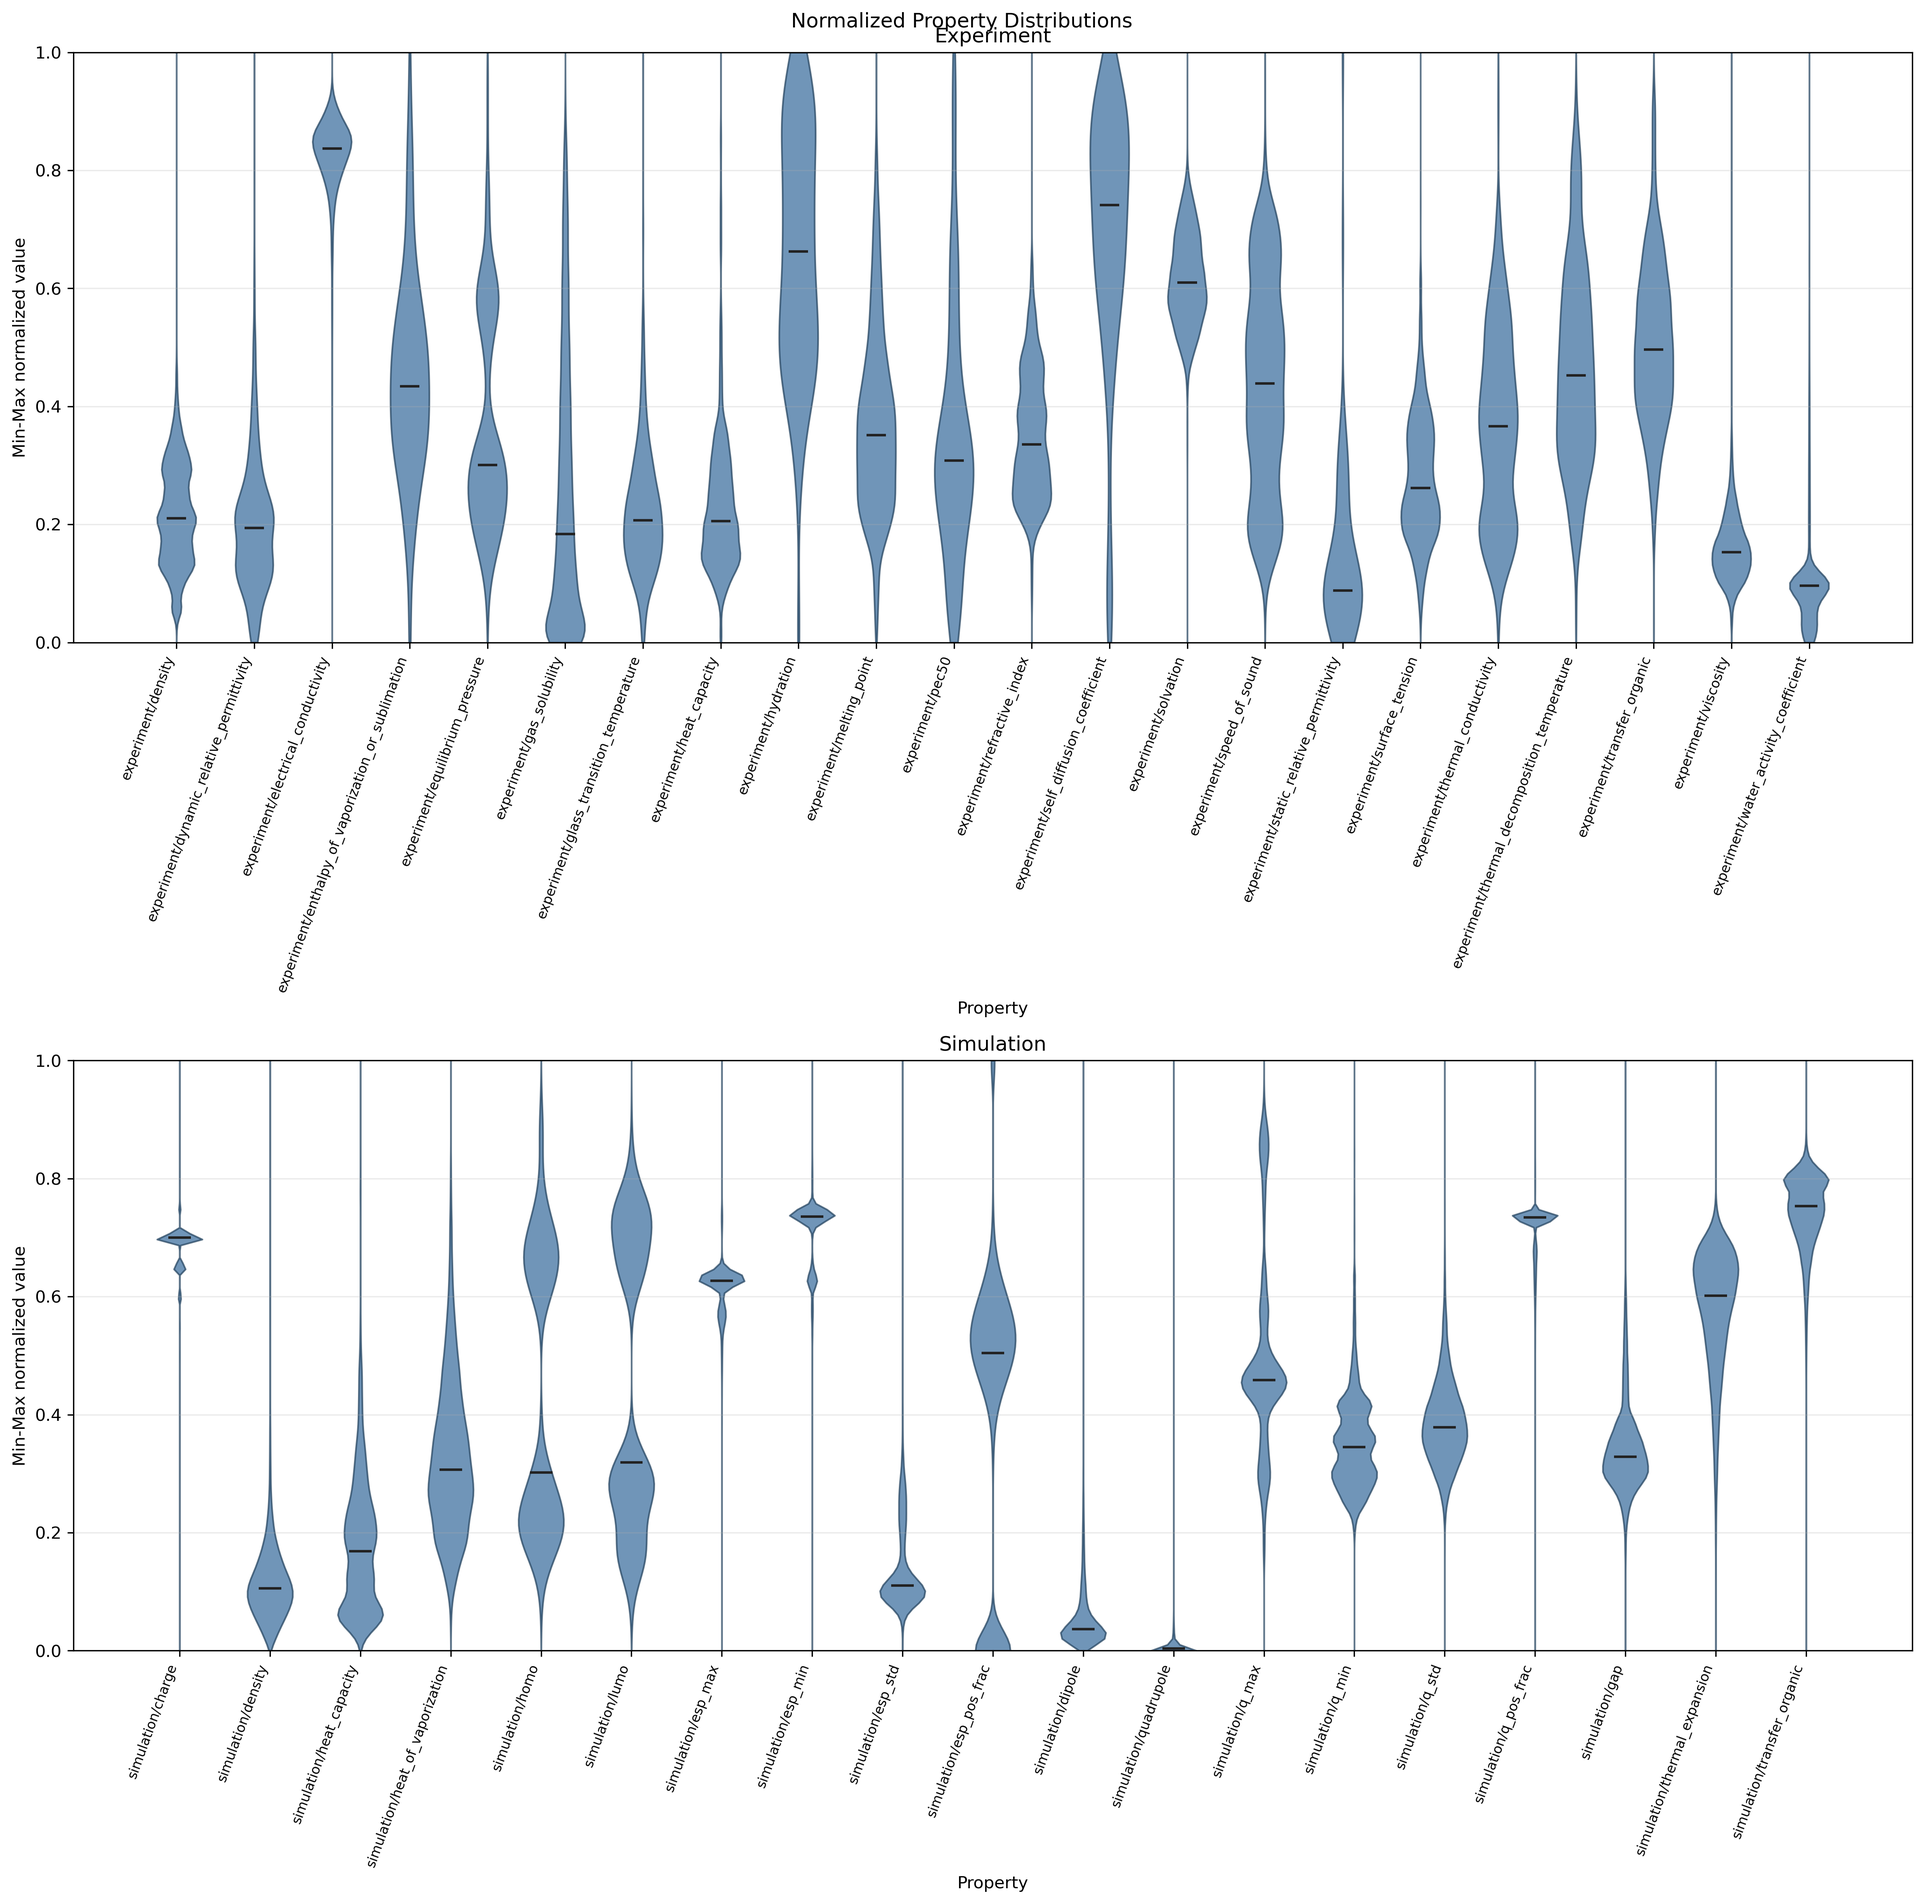
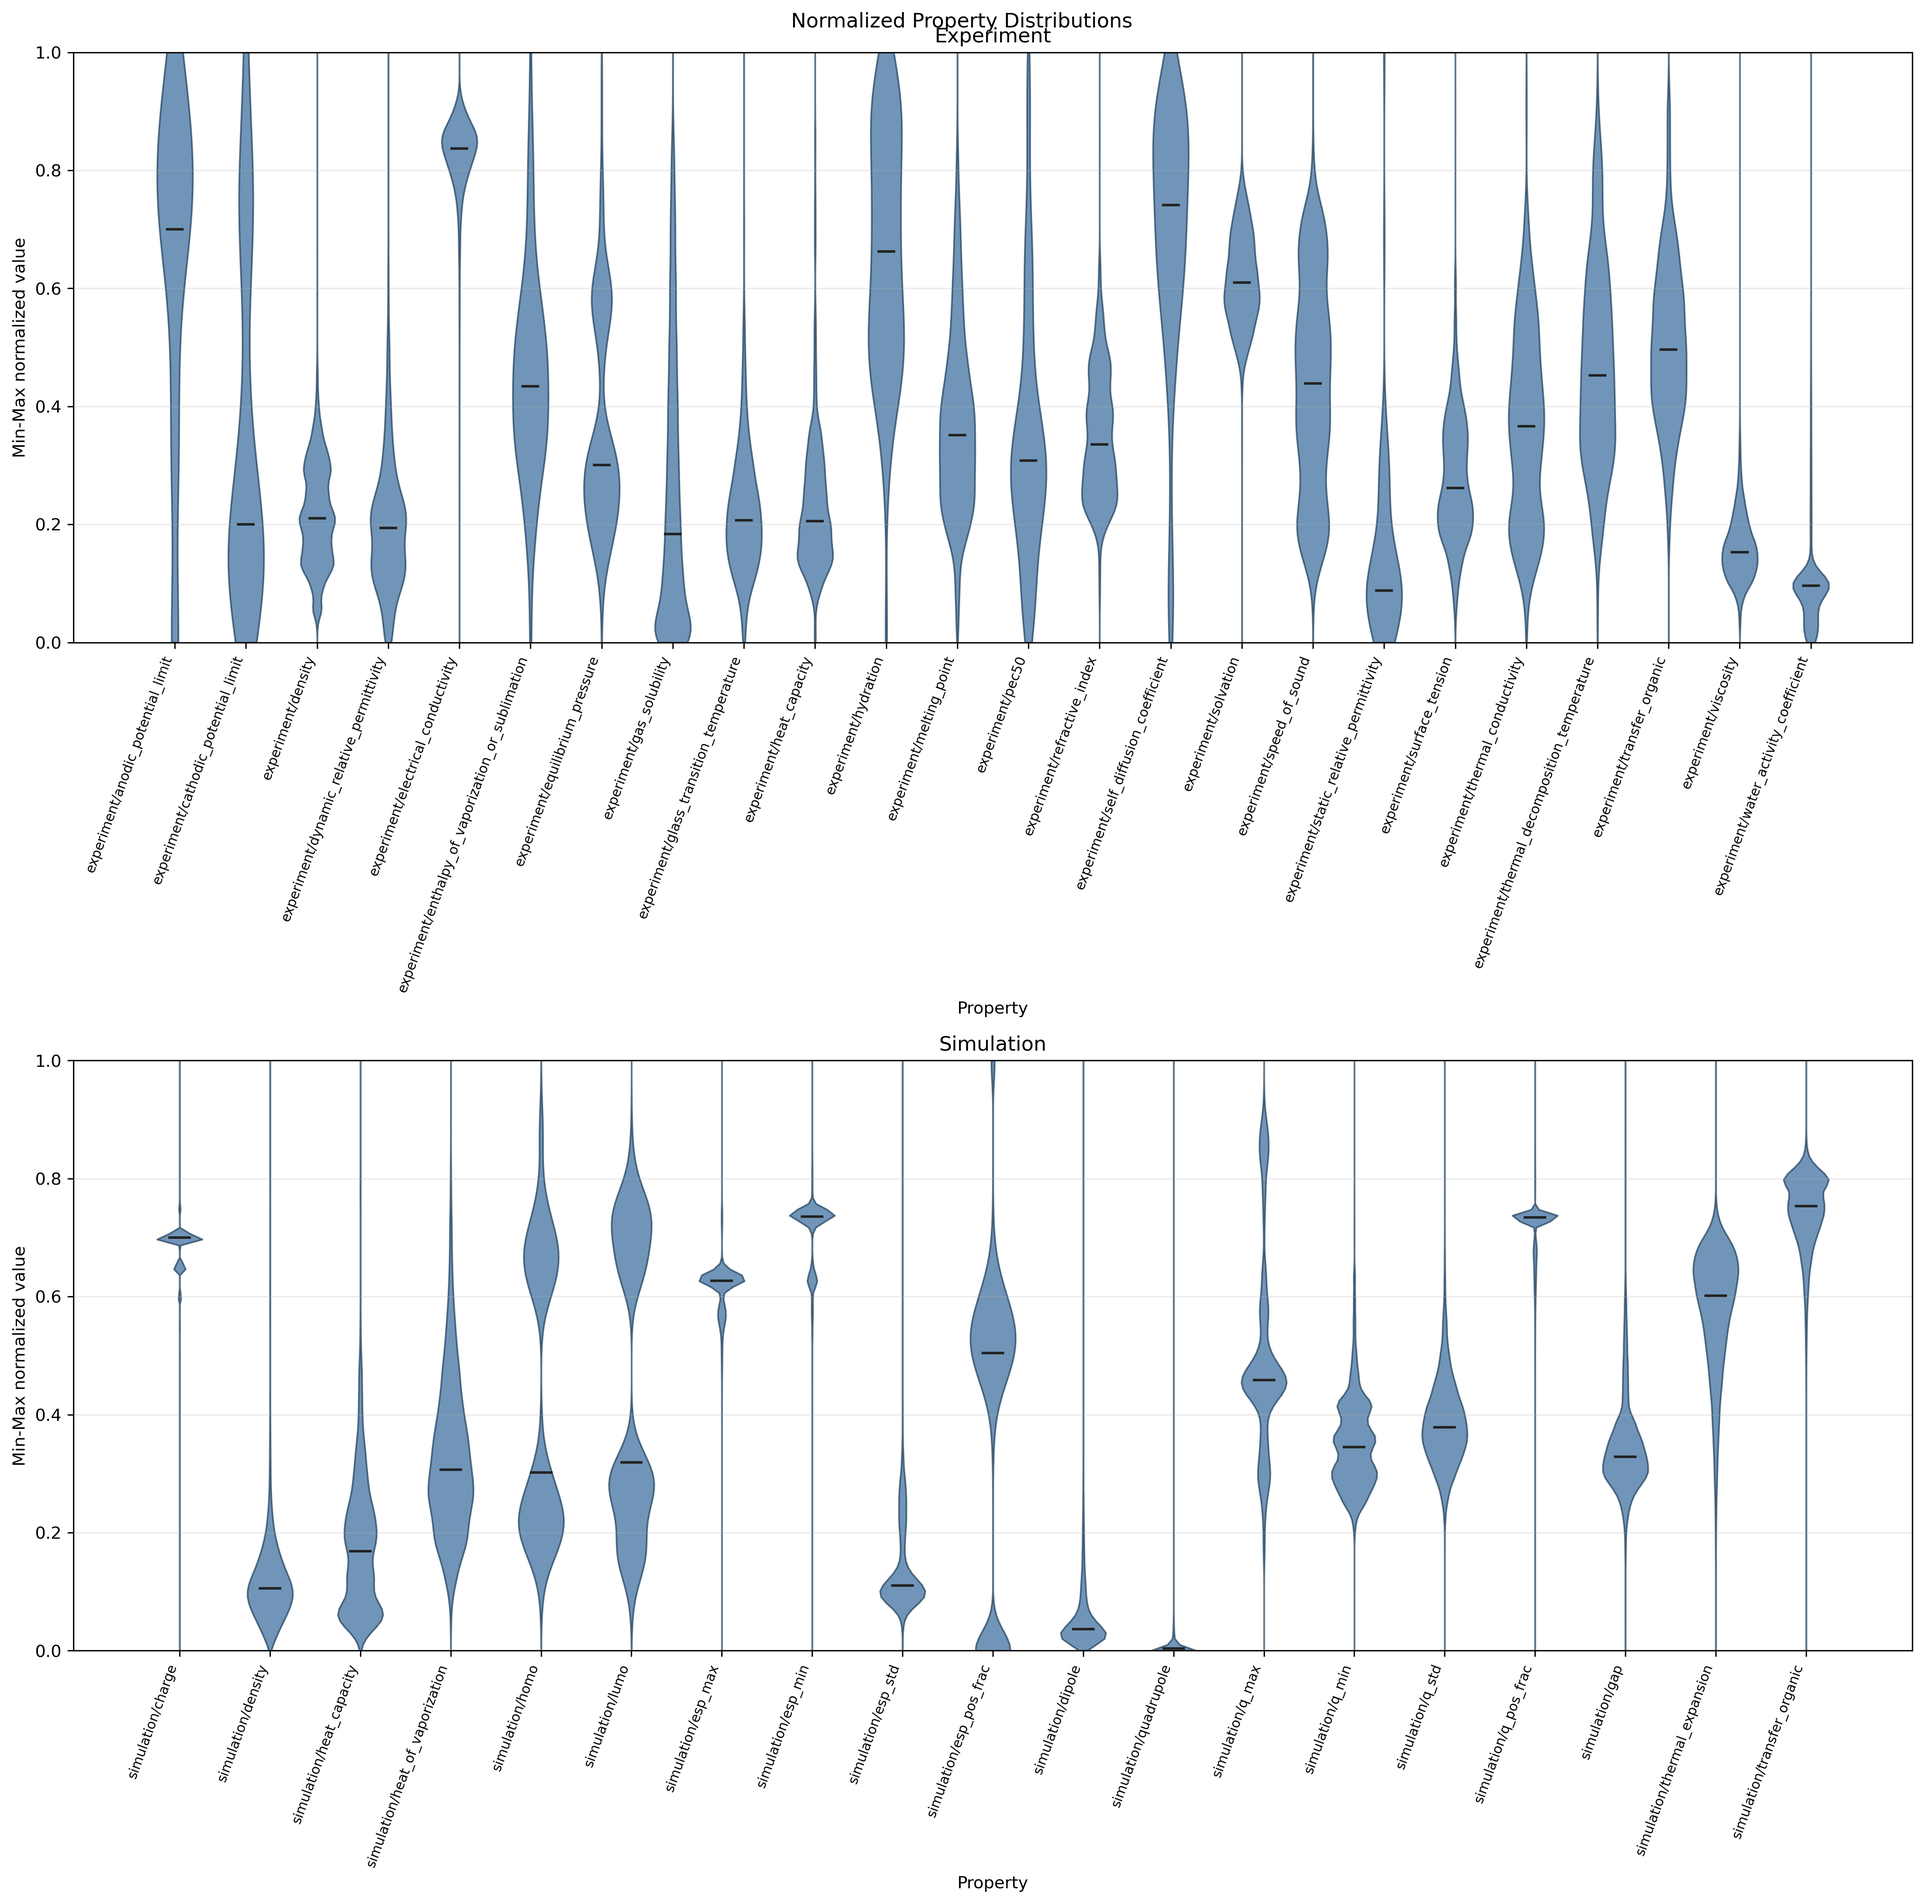
Add new properties and system overlap data for anodic and cathodic potential limits
- Updated property_analysis_summary.csv to include anodic and cathodic potential limits with relevant metrics.
- Expanded property_system_overlap.csv to include overlap data for anodic and cathodic potential limits against various properties, enhancing the analysis of system interactions.

diff --git a/analysis/property_analysis_report.md b/analysis/property_analysis_report.md
@@ -2,11 +2,11 @@
 
 ## Global Summary
 
-- Analyzed properties: 41
-- Total data points across analyzed properties: 1766235
-- Sum of property-level unique systems: 1485174
+- Analyzed properties: 43
+- Total data points across analyzed properties: 1766455
+- Sum of property-level unique systems: 1485218
 - Properties recommended for system holdout test: 33
-- Properties recommended for grouped CV: 8
+- Properties recommended for grouped CV: 10
 - Properties recommended for leave-one-system-out or descriptive analysis: 0
 
 ## Largest Properties
@@ -19,12 +19,12 @@
 | simulation | heat_of_vaporization | 41701 | 20895 | system_holdout_test |
 | experiment | viscosity | 39941 | 2586 | system_holdout_test |
 | simulation | charge | 28203 | 28203 | system_holdout_test |
-| simulation | gap | 27258 | 27258 | system_holdout_test |
 | simulation | q_min | 27258 | 27258 | system_holdout_test |
+| simulation | gap | 27258 | 27258 | system_holdout_test |
 | simulation | q_max | 27258 | 27258 | system_holdout_test |
-| simulation | esp_min | 27258 | 27258 | system_holdout_test |
 | simulation | quadrupole | 27258 | 27258 | system_holdout_test |
-| simulation | dipole | 27258 | 27258 | system_holdout_test |
+| simulation | esp_min | 27258 | 27258 | system_holdout_test |
+| simulation | esp_max | 27258 | 27258 | system_holdout_test |
 
 ## High Leakage Risk Properties
 
@@ -33,6 +33,8 @@ These properties should not be split by random rows because repeated systems can
 | bucket | property | unique_systems | multi_point_system_ratio | max_points_per_system |
 | --- | --- | --- | --- | --- |
 | experiment | dynamic_relative_permittivity | 49 | 1.0 | 18 |
+| experiment | anodic_potential_limit | 22 | 1.0 | 5 |
+| experiment | cathodic_potential_limit | 22 | 1.0 | 5 |
 | simulation | heat_of_vaporization | 20895 | 0.9957406078009093 | 2 |
 | simulation | density | 26204 | 0.9941993588765075 | 9 |
 | experiment | equilibrium_pressure | 95 | 0.9894736842105263 | 151 |
@@ -42,8 +44,6 @@ These properties should not be split by random rows because repeated systems can
 | experiment | gas_solubility | 487 | 0.9527720739219713 | 906 |
 | experiment | density | 5966 | 0.9446865571572243 | 2509 |
 | experiment | heat_capacity | 352 | 0.875 | 1757 |
-| experiment | surface_tension | 1141 | 0.845749342681858 | 180 |
-| experiment | refractive_index | 726 | 0.803030303030303 | 237 |
 
 ## System Holdout Test Candidates
 
@@ -66,6 +66,8 @@ These properties should not be split by random rows because repeated systems can
 
 | bucket | property | unique_systems | data_points |
 | --- | --- | --- | --- |
+| experiment | anodic_potential_limit | 22 | 110 |
+| experiment | cathodic_potential_limit | 22 | 110 |
 | experiment | self_diffusion_coefficient | 36 | 382 |
 | experiment | static_relative_permittivity | 44 | 65 |
 | experiment | dynamic_relative_permittivity | 49 | 882 |
@@ -84,17 +86,17 @@ None.
 Experimental ionic-liquid systems are keyed by `(cation, anion)`; measurement conditions are ignored.
 
 - Full pairwise statistics: `property_system_overlap.csv`
-- Properties with IL systems: 20
+- Properties with IL systems: 22
 
 ## Generated Figures
 
 - condition_availability: 1
 - coverage: 4
 - normalized_property_violin: 1
-- property_distribution_1d: 41
-- property_distribution_2d: 55
+- property_distribution_1d: 43
+- property_distribution_2d: 61
 - property_system_overlap: 1
-- system_frequency: 41
+- system_frequency: 43
 
 Key summary figures:
 - `figures/coverage/property_coverage_all.png`
